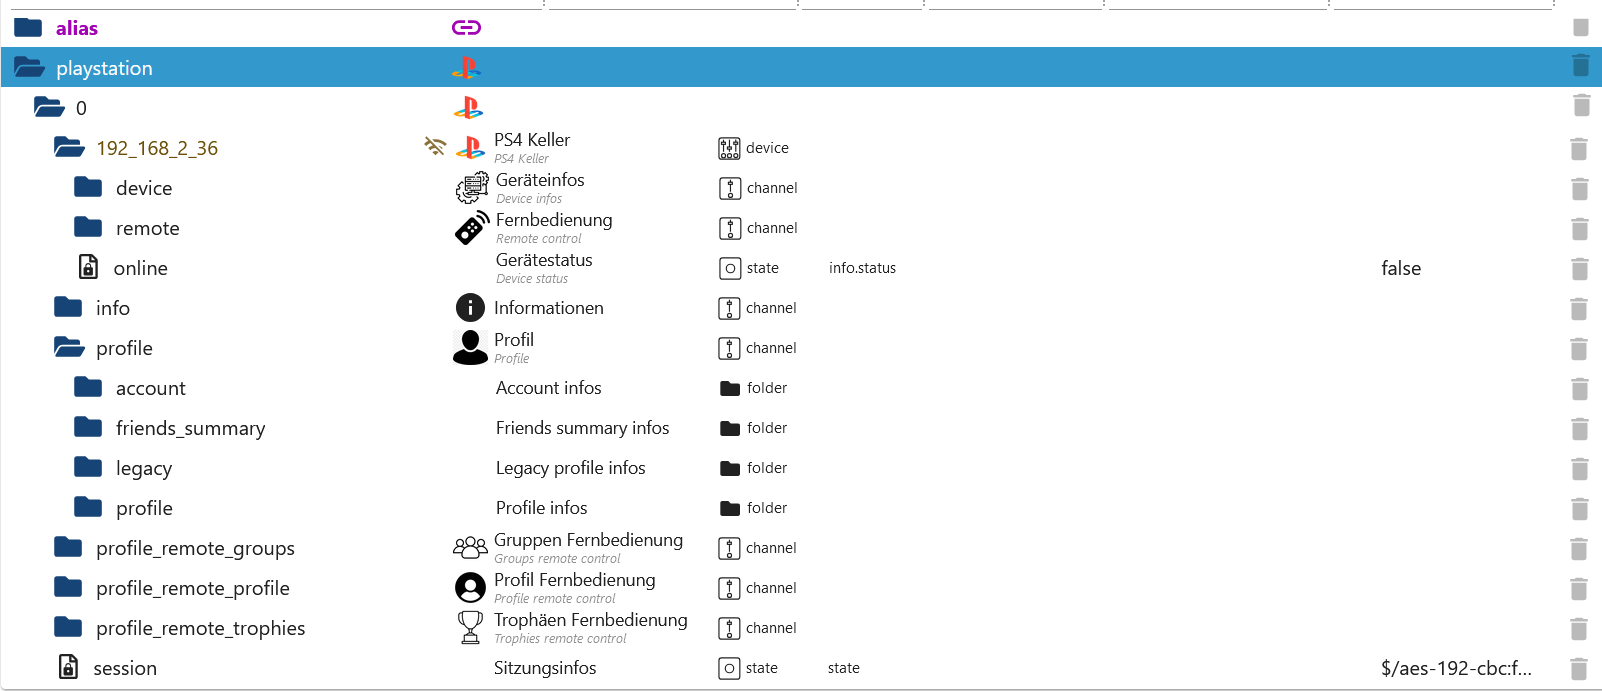
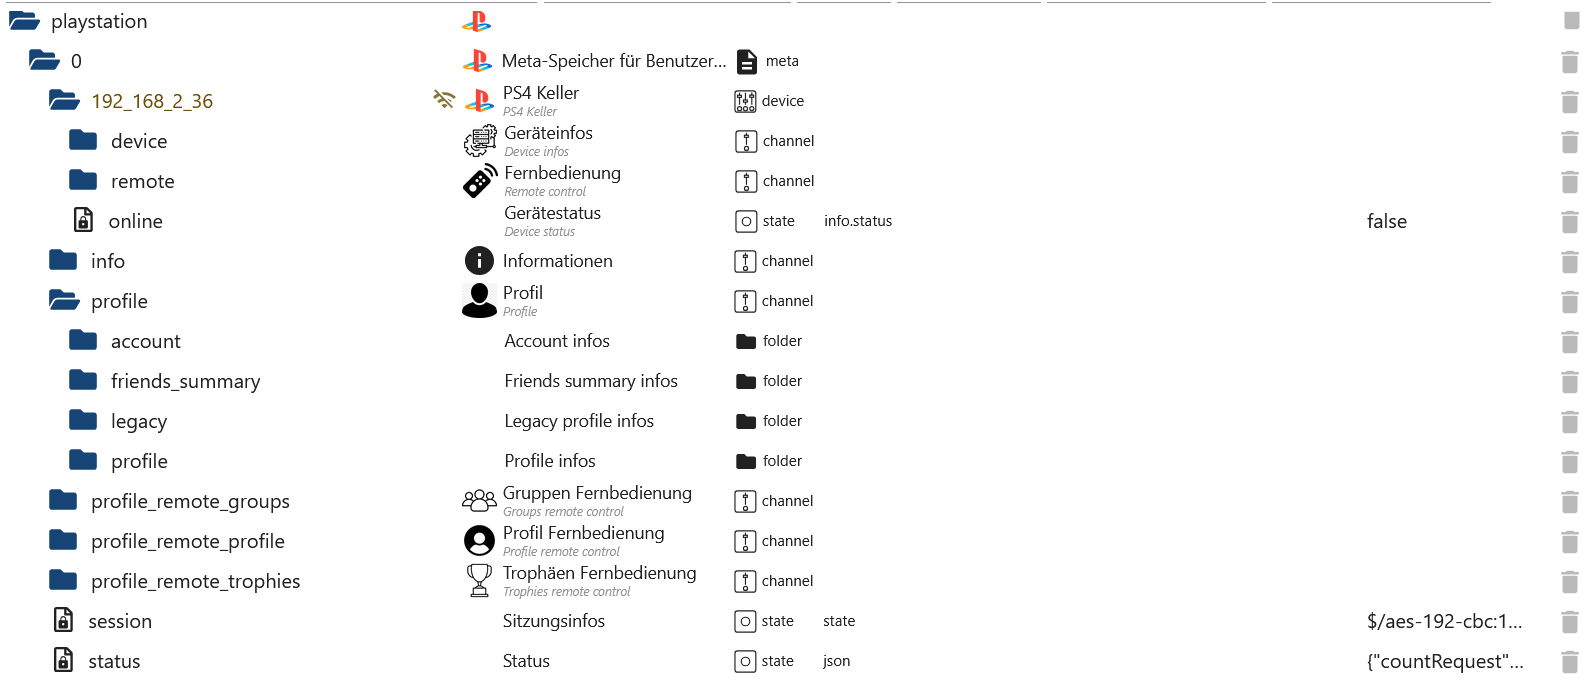
update desc & fix load voice meassge

diff --git a/lib/requests_group.js b/lib/requests_group.js
@@ -233,18 +233,21 @@ module.exports = {
         const methode = "get";
         const header = Object.assign({}, this.getHeader);
         header.headers["Content-Transfer-Encoding"] = "binary";
+        const params = {
+            responseType: "arraybuffer",
+        };
         const url = `${constants.BASE_PATH.gaming_lounge}${constants.API_PATH.group_resource.replace("{group_id}", data[0]).replace("{resource_id}", data[1])}`;
-        const resp = await this.requestPSN(methode, url, header, null, true);
+        const resp = await this.requestPSN(methode, url, header, params, true);
         this.log.debug(`Attachment: ${JSON.stringify(resp.data)}`);
         if (resp && resp.data) {
             await this.setState(`profile_remote_groups.result`, { val: JSON.stringify(resp.data), ack: true });
         } else {
             await this.setState(`profile_remote_groups.result`, { val: JSON.stringify({}), ack: true });
         }
-        //this.writeFile("0_userdata.0", "test.3gp", resp.data.toString(), error => {
-        //    if (error) {
-        //        this.log.error(`Fehler beim Speichern:${error}`);
-        //    }
-        //});
+        this.writeFile(this.namespace, `${data[1]}.3gp`, resp.data, error => {
+            if (error) {
+                this.log.error(`Fehler beim Speichern: ${error}`);
+            }
+        });
     },
 };

diff --git a/docs/de/README.md b/docs/de/README.md
@@ -21,6 +21,7 @@
     - [Remote PSN Trophäen](#objekte-remote_trophies)
     - [Remote PSN Gruppen](#objekte-remote_groups)
 - [Beispiele](#arrayjson-beispiele)
+- [Status Beschränkungen als JSON](#status-json)
 
 # Instanz Einstellungen
 
@@ -247,6 +248,26 @@ Online-ID: Nickname
 [Zusammenfassung](#zusammenfassung)
 
 ![objects_overview_device.png](img/objects_overview_device.png)
+
+# Status JSON
+
+[Zusammenfassung](#zusammenfassung)
+
+```json
+{
+    "countRequest": 5, // Counter Abfragen der letzten 15 Minuten
+    "maxRequest": 600, // Max. Anfragen pro 15 Minuten
+    "periode": 900000, // 15 Minuten timestamp
+    "timestamp": 1739475826546, // Start 15 Minuten Counter als timestamp
+    "timeISO": "2025-02-13T19:43:46.546Z", // Start 15 Minuten Counter als ISO
+    "request": "https://us-prof.np.community.playstation.net/userProfile/v1/users/Luna2008Lara/profile2", // Letzte GET/POST/PUT Request
+    "lastRequest": "2025-02-13T19:43:47.501Z", // Letzte Request als ISO
+    "npssoExired": 0, // NPSSO Token Ablaufdatum - Derzeit unbekannt
+    "npssoNew": 0, // Start NPSSO Token Erstellung. Dieser soll nur einige Monate gültig sein und muss manuell erneuert werden
+    "error": "NoError", // Letzte Fehlermeldung
+    "lastError": "2025-02-10T18:51:32.930Z" // Datum letzte Fehlermeldung als ISO
+}
+```
 
 # Array/JSON Beispiele
 

diff --git a/docs/en/README.md b/docs/en/README.md
@@ -21,6 +21,7 @@
     - [Remote PSN Trophies](#objects-remote_trophies)
     - [Remote PSN Groups](#objects-remote_groups)
 - [Example](#example-arrayjson)
+- [Status restrictions as JSON](#status-json)
 
 # Instance Settings
 
@@ -247,6 +248,26 @@ Online-ID: Nickname
 [Summary](#summary)
 
 ![objects_overview_device.png](img/objects_overview_device.png)
+
+# Status JSON
+
+[Summary](#summary)
+
+```json
+{
+    "countRequest": 5, // Counter queries for the last 15 minutes
+    "maxRequest": 600, // Max. requests per 15 minutes
+    "periode": 900000, // 15 minutes timestamp
+    "timestamp": 1739475826546, // Start 15 minute counter as timestamp
+    "timeISO": "2025-02-13T19:43:46.546Z", // Start 15 minute counter as ISO
+    "request": "https://us-prof.np.community.playstation.net/userProfile/v1/users/Luna2008Lara/profile2", // Last GET/POST/PUT Request
+    "lastRequest": "2025-02-13T19:43:47.501Z", // Last request as ISO
+    "npssoExired": 0, // NPSSO Token Expiry Date - Currently unknown
+    "npssoNew": 0, // Start NPSSO token creation. This should only be valid for a few months and must be renewed manually
+    "error": "NoError", // Last error message
+    "lastError": "2025-02-10T18:51:32.930Z" // Date of last error message as ISO
+}
+```
 
 # Example Array/JSON
 

diff --git a/README.md b/README.md
@@ -38,10 +38,14 @@ You can wake up the Playstation or put it into standby mode. Some buttons are al
 - Search Games
 - Search Member
 - Groups/Messages
+- Send message (currently text message)
+- Load voice message
+- Accept friendship request
+- Reject friendship requests
+- Profile
 
 ### Currently not available:</br>
 
-- Load voice messages
 - Load images messages
 
 ### In progress
@@ -90,6 +94,9 @@ You can wake up the Playstation or put it into standby mode. Some buttons are al
 - (Lucky-ESA) Fixed bug when creating a group
 - (Lucky-ESA) Friendship request accept added
 - (Lucky-ESA) Friendship request reject added
+- (Lucky-ESA) Added loading voice data from a message
+- (Lucky-ESA) Added status restrictions as JSON
+- (Lucky-ESA) Added meta object for attachments from message
 
 ### 0.0.2 (2025-02-05)
 
